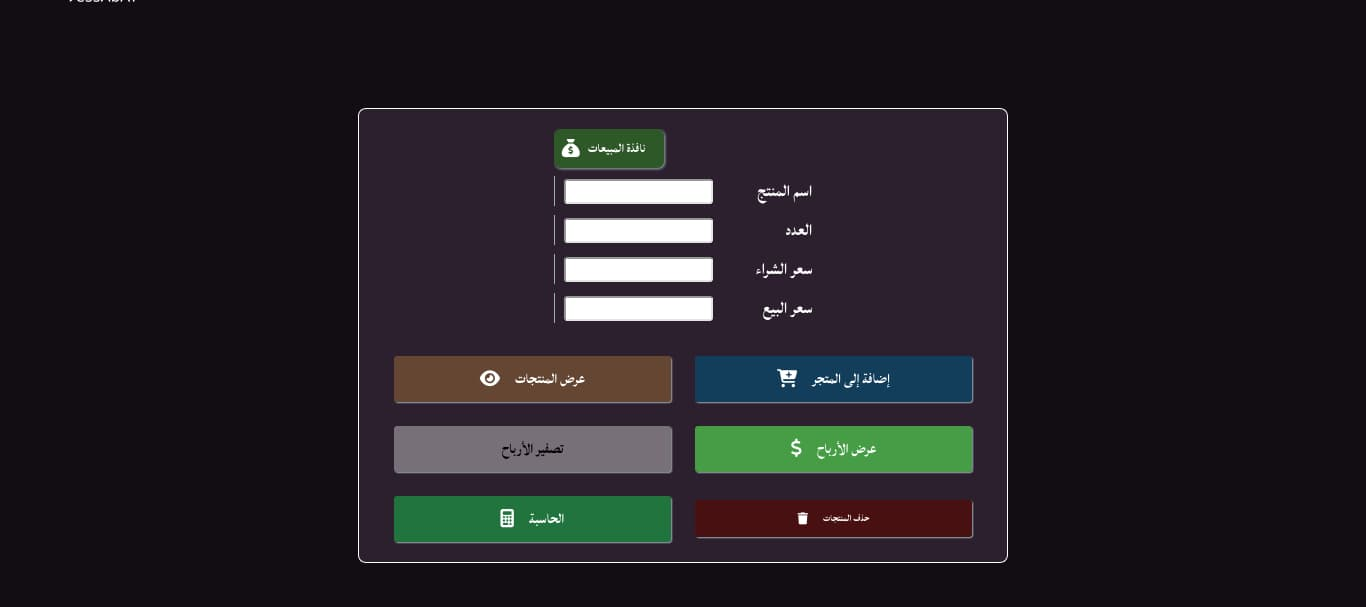
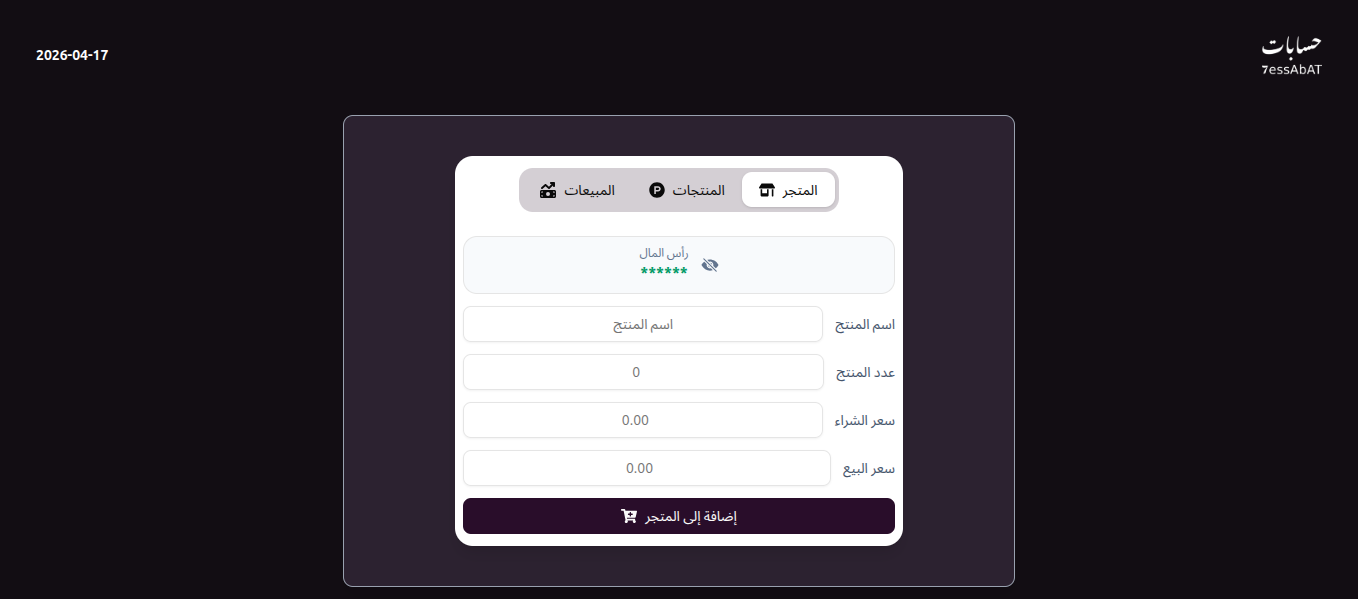
update hero profile

Changed region(s): [[0.2474, 0.1503, 0.7732, 0.9917], [0.9278, 0.0601, 0.9897, 0.1202], [0.0309, 0.0601, 0.0928, 0.1202]]

diff --git a/app/ui/components/Home/Hero.tsx b/app/ui/components/Home/Hero.tsx
@@ -32,20 +32,22 @@ export default function Hero() {
   }, []);
   return (
     <section className="px-4 relative min-h-screen max-lg:top-17.5 sm:max-md:top-27.75 pt-4 -20 text-center font-extrabold z-10 rounded-xl md:flex md:gap-15 md:justify-evenly lg:justify-between ">
-      {/* <div className="relative z-10 p-6 rounded-xl md:flex md:justify-between"> */}
-      {/* Hero img */}
-      <Image
-        src={"/me2.webp"}
-        width={280}
-        height={280}
-        alt="face of the website developer"
-        loading="eager"
-        fetchPriority="high"
-        className={`shadow-md shadow-s-color w-60 md:w-70 md:h-70 lg:w-100 lg:h-100 rounded-full lg:mx-auto my-auto max-md:mx-auto 
-            transition-opacity duration-700 ease-in-out border border-accent  
-            `}
-      />
-
+     <div className="relative group lg:mx-auto my-auto max-md:mx-auto">
+  {/* Decorative Background Ring */}
+  <div className="absolute -inset-2 bg-gradient-to-tr from-sky-400 to-indigo-500 rounded-full blur opacity-25 group-hover:opacity-50 transition duration-1000"></div>
+  
+  <div className="relative w-64 h-64 sm:w-72 sm:h-72 lg:w-98 lg:h-98 overflow-hidden rounded-full border-4 border-white shadow-2xl">
+    <Image
+      src={"/hero2.webp"}
+      fill // Uses absolute positioning to fill the container perfectly
+      alt="Ali Abd-Elbagi"
+      loading="eager"
+      priority
+      sizes="(max-width: 768px) 256px, (max-width: 1024px) 288px, 384px"
+      className="object-cover object-center transition-transform duration-500 group-hover:scale-110"
+    />
+  </div>
+</div>
       {/* Hero text */}
       <div className="md:w-1/2 @container md:text-start md:flex md:justify-center md:flex-col">
         {/* HI */}

diff --git a/app/context/ProjectContext.tsx b/app/context/ProjectContext.tsx
@@ -1,11 +1,10 @@
-'use client'
+"use client";
 /**
  * ----- This us Context used to  : -------
  * Provide componets with selected catgeroy & set func to selected category & func to fileterd projects based on the selected category
  */
 
 import { createContext, useContext, useState } from "react";
-
 
 // my work items
 const worksItems = [
@@ -23,6 +22,8 @@ const worksItems = [
       TypeScript: "typeScript.webp",
       tailwind: "tailwindCss.webp",
       vite: "vite.svg",
+      shadcn: "shadcn.webp",
+      firebase: "firebase.webp",
     },
   },
   {
@@ -90,14 +91,15 @@ const worksItems = [
     title: "7essAbAt - حسابات",
     details: "built to helpe me in small busniess calculations",
     img: "7essabat.jpg",
-    href: "https://ali007-depug.github.io/7essAbAt-App-V2/",
-    repo: "https://github.com/ali007-depug/7essAbAt-App-V2/",
+    href: "https://7essabat-app.netlify.app/",
+    repo: "https://github.com/ali007-depug/7essAbAt-App-V3/",
     category: "personal",
 
     builtWith: {
-      html: "html.webp",
-      sass: "sass.webp",
-      js: "js.webp",
+      react: "react.webp",
+      typescript: "typeScript.webp",
+      tailwind: "tailwindCss.webp",
+      shadcn: "shadcn.webp",
     },
   },
   {
@@ -209,8 +211,7 @@ export function ProjcetsProvider({ children }: { children: React.ReactNode }) {
         selectedCategory,
         setSelectedCategory,
         filterdProjects,
-        allProjects
-        
+        allProjects,
       }}
     >
       {children}
